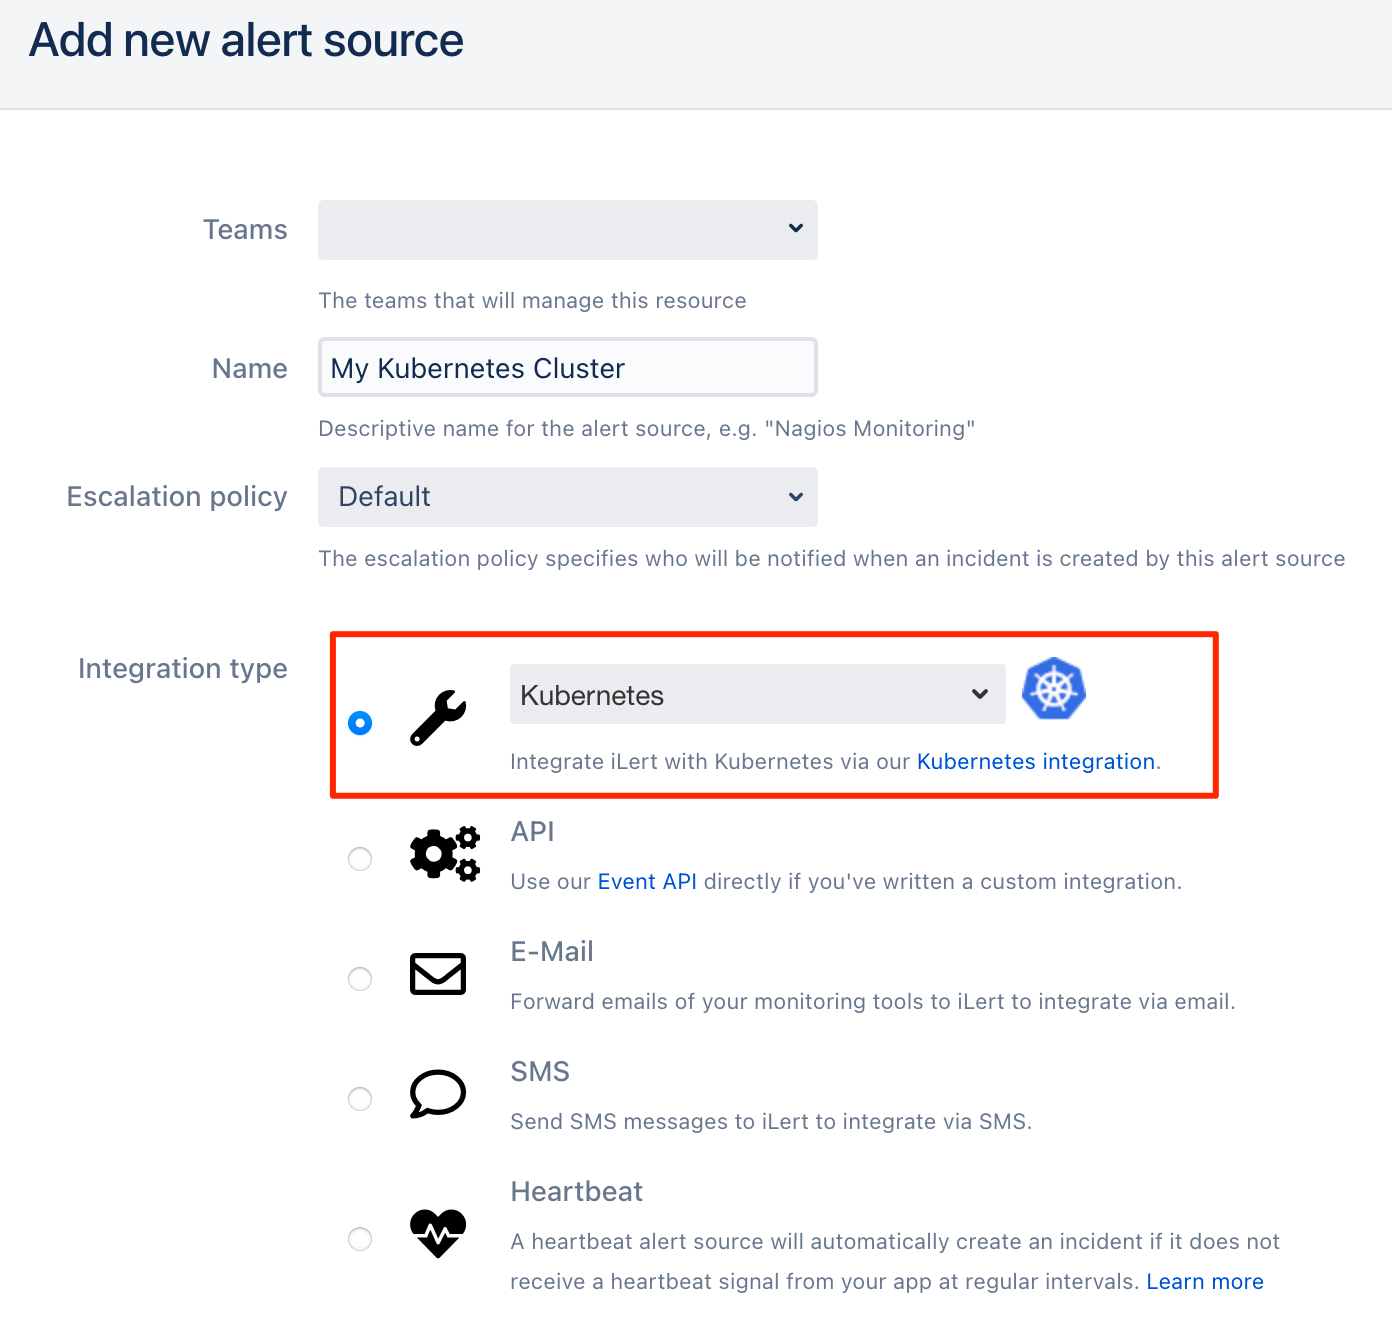
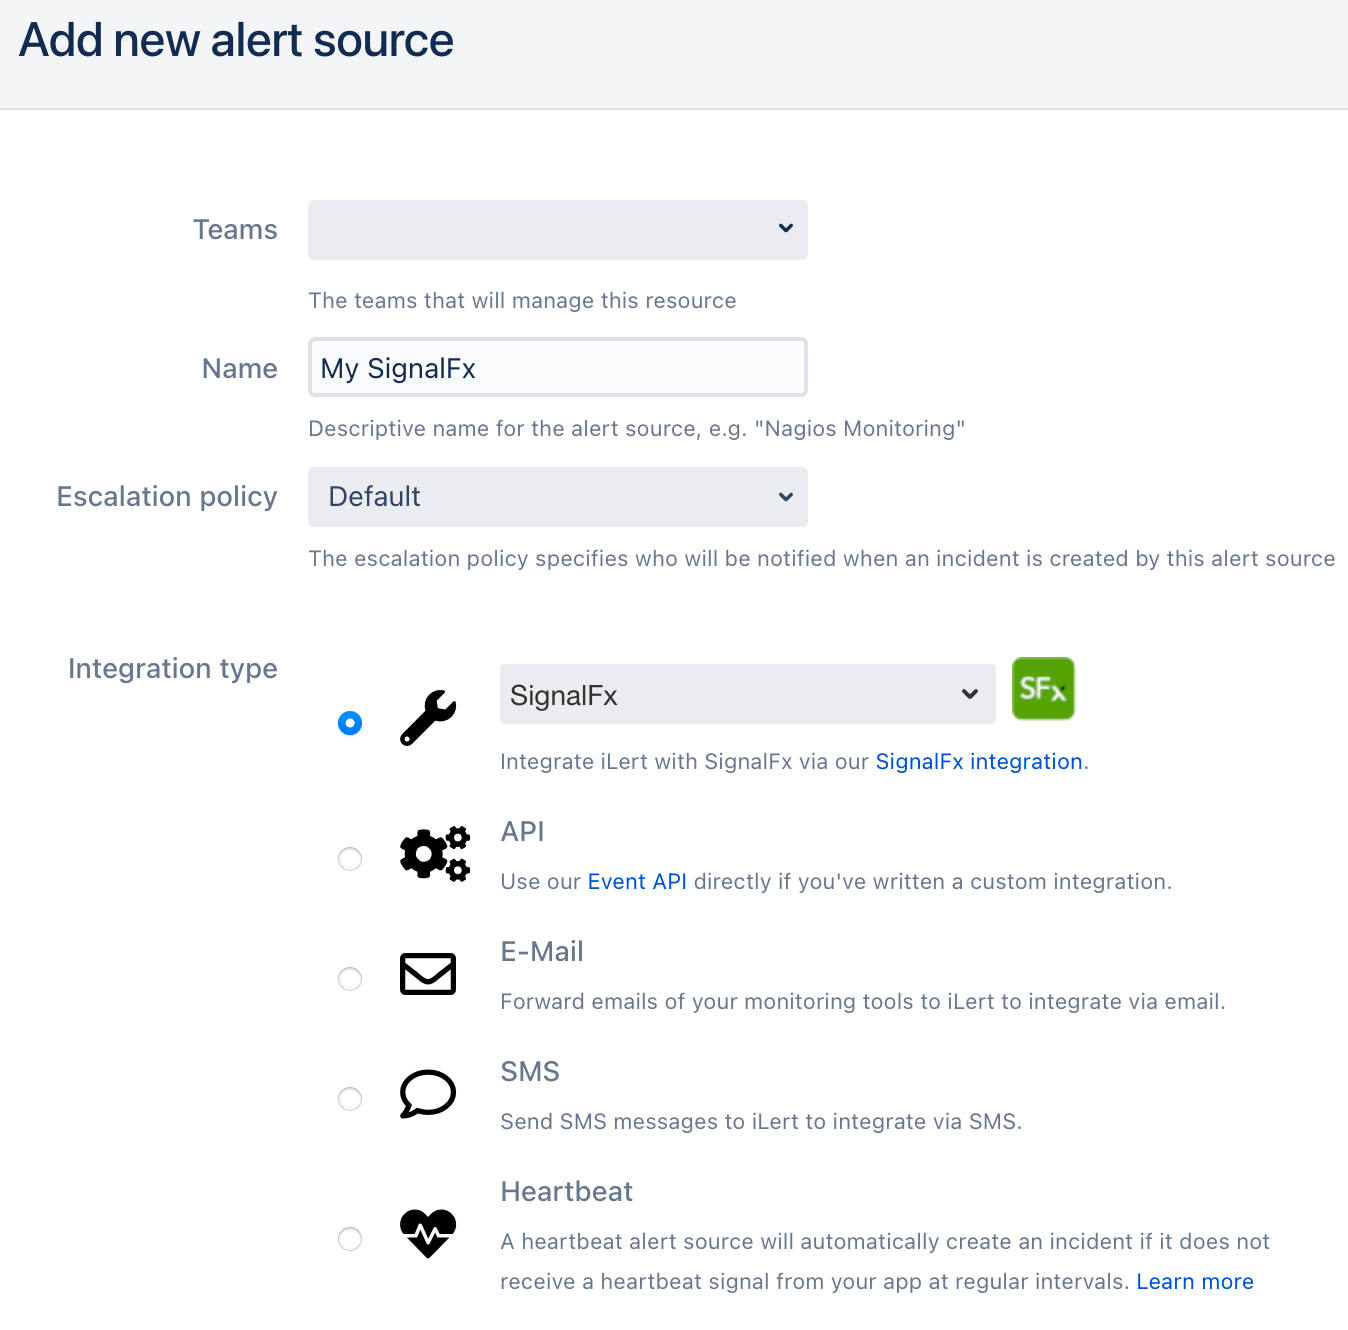
GitBook: [master] 3 pages and 6 assets modified

diff --git a/integrations/signalfx.md b/integrations/signalfx.md
@@ -1,0 +1,50 @@
+---
+description: >-
+  With the iLert SignalFx integration, you can create incidents in iLert based
+  on SignalFx alerts.
+---
+
+# SignalFx Integration
+
+## In iLert <a id="in-ilert"></a>
+
+### Create a SignalFx alert source <a id="create-alert-source"></a>
+
+1. Go to the "Alert sources" tab and click **Create new alert source**
+
+2. Enter a name and select your desired escalation policy. Select "SignalFx" as the **Integration Type** and click on **Save**.
+
+![](../.gitbook/assets/ilert%20%2831%29.png)
+
+3. On the next page, a Webhook URL is generated. You will need this URL below when setting up the hook in SignalFx.
+
+![](../.gitbook/assets/ilert%20%2832%29.png)
+
+## In SignalFx <a id="in-splunk"></a>
+
+### Create a search <a id="create-action-sequences"></a>
+
+1. Go to SignalFx and then to **Alerts.** Create a detector or edit an existing detector for triggering incidents.
+
+![](../.gitbook/assets/detectors.png)
+
+2. Choose the rule that you would like to apply, then click **Edit.** In the **Alert recipients** section, click **Add Recipient,** select **Webhook -&gt; Custom...**
+
+![](../.gitbook/assets/detector_-_my_detector.png)
+
+3. On the modal window paste the **Webhook URL** that you generated in iLert and click on **Update**
+
+![](../.gitbook/assets/detector_-_my_detector%20%281%29.png)
+
+Finished! Your SignalFx alerts will now create incidents in iLert.
+
+## FAQ <a id="faq"></a>
+
+**Will incidents in iLert be resolved automatically?**
+
+Yes, as soon as an alert with "ok" has been resolved in SignalFx, the associated incident in iLert will be resolved automatically.
+
+**Can I connect SignalFx with multiple alert sources from iLert?**
+
+Yes, simply add more recipients in SignalFx alert rule.
+

diff --git a/SUMMARY.md b/SUMMARY.md
@@ -100,6 +100,7 @@
   * [ServiceNow Outbound Integration](integrations/service-now/outbound.md)
 * [Slack Integration](integrations/slack.md)
 * [Splunk Integration](integrations/splunk.md)
+* [SignalFx Integration](integrations/signalfx.md)
 * [SMS Integration](integrations/sms-integration.md)
 * [SolarWinds Integration](integrations/solarwinds.md)
 * [Single Sign-On Setup](integrations/sso.md)

diff --git a/integrations/kubernetes.md b/integrations/kubernetes.md
@@ -14,7 +14,7 @@ description: >-
 
 2. Enter a name and select your desired escalation policy. Select "Kubernetes" as the **Integration Type** and click on **Save**.
 
-![](../.gitbook/assets/ilert%20%2831%29.png)
+![](../.gitbook/assets/ilert%20%2833%29.png)
 
 3. On the next page, a API Key is generated. You will need it below when setting up the **ilert-kube-agent** deployment.
 
